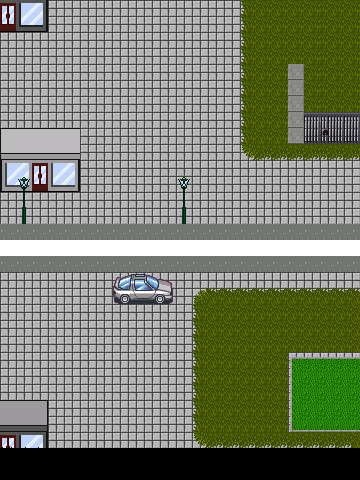
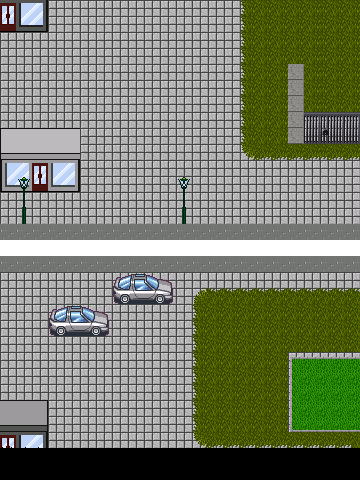
- fixed bug created by refreshing blockers and destinations(Person.js)
- fixed blockers positions and added new ones(main.js)

Changed region(s): [[0.1222, 0.625, 0.3056, 0.7188]]

diff --git a/Person.js b/Person.js
@@ -61,7 +61,7 @@ class Person{
                 if(this.y != 0){
                     if(world[this.x][this.y - 1] == personCharacter || world[this.x][this.y - 1] == shopCharacter || world[this.x][this.y - 1] == blockerCharacter){
                         this.moveQueue=[];
-                        console.log("RECALCULATING.......")
+                        // console.log("RECALCULATING.......")
                         this.aStarPathFinding("random");
                         return;
                     }
@@ -76,7 +76,7 @@ class Person{
                 if(this.y != 0 && this.x != 0){
                     if(world[this.x - 1][this.y - 1] == personCharacter || world[this.x - 1][this.y - 1] == shopCharacter || world[this.x - 1][this.y - 1] == blockerCharacter){
                         this.moveQueue=[];
-                        console.log("RECALCULATING.......")
+                        // console.log("RECALCULATING.......")
                         this.aStarPathFinding("random");
                         return;
                     }
@@ -93,7 +93,7 @@ class Person{
                 if(this.x != 0){
                     if(world[this.x - 1][this.y] == personCharacter || world[this.x - 1][this.y] == shopCharacter || world[this.x - 1][this.y] == blockerCharacter){
                         this.moveQueue=[];
-                        console.log("RECALCULATING.......")
+                        // console.log("RECALCULATING.......")
                         this.aStarPathFinding("random");
                         return;
                     }
@@ -108,7 +108,7 @@ class Person{
                 if(this.y < (screenY - 1) && this.x != 0){
                     if(world[this.x - 1][this.y + 1] == personCharacter || world[this.x - 1][this.y + 1] == shopCharacter || world[this.x - 1][this.y + 1] == blockerCharacter){
                         this.moveQueue=[];
-                        console.log("RECALCULATING.......")
+                        // console.log("RECALCULATING.......")
                         this.aStarPathFinding("random");
                         return;
                     }
@@ -124,7 +124,7 @@ class Person{
                 if(this.y < (screenY - 1)){
                     if(world[this.x][this.y + 1] == personCharacter || world[this.x][this.y + 1] == shopCharacter || world[this.x][this.y + 1] == blockerCharacter){
                         this.moveQueue=[];
-                        console.log("RECALCULATING.......")
+                        // console.log("RECALCULATING.......")
                         this.aStarPathFinding("random");
                         return;
                     }
@@ -139,7 +139,7 @@ class Person{
                 if(this.y < (screenY - 1) && this.x < (screenX - 1)){
                     if(world[this.x + 1][this.y + 1] == personCharacter || world[this.x + 1][this.y + 1] == shopCharacter || world[this.x + 1][this.y + 1] == blockerCharacter){
                         this.moveQueue=[];
-                        console.log("RECALCULATING.......")
+                        // console.log("RECALCULATING.......")
                         this.aStarPathFinding("random");
                         return;
                     }
@@ -155,7 +155,7 @@ class Person{
                 if(this.x < (screenX - 1)){
                     if(world[this.x + 1][this.y] == personCharacter || world[this.x + 1][this.y] == shopCharacter || world[this.x + 1][this.y] == blockerCharacter){
                         this.moveQueue=[];
-                        console.log("RECALCULATING.......")
+                        // console.log("RECALCULATING.......")
                         this.aStarPathFinding("random");
                         return;
                     }
@@ -170,7 +170,7 @@ class Person{
                 if(this.y != 0 && this.x < (screenX - 1)){
                     if(world[this.x][this.y - 1] == personCharacter || world[this.x][this.y - 1] == shopCharacter || world[this.x][this.y - 1] == blockerCharacter){
                         this.moveQueue=[];
-                        console.log("RECALCULATING.......")
+                        // console.log("RECALCULATING.......")
                         this.aStarPathFinding("random");
                         return;
                     }
@@ -245,7 +245,10 @@ class Person{
         aStarGrid[ClosestShopCoordinates[0]][ClosestShopCoordinates[1]] = shopCharacter;
 
         //closing the first node
-        aStarGrid[currentNodeCoordinates[0]][currentNodeCoordinates[1]].status = "closed";
+        if(aStarGrid[currentNodeCoordinates[0]][currentNodeCoordinates[1]] instanceof Node){
+            aStarGrid[currentNodeCoordinates[0]][currentNodeCoordinates[1]].status = "closed";
+        }
+
         // console.log(JSON.parse(JSON.stringify(aStarGrid)))
         // (aStarGrid);
         //a star main loop
@@ -352,7 +355,7 @@ class Person{
                 currentNodeCoordinates = nextNodeToClose.NodeCoordinates;
             }
             catch(TypeError){
-                console.log("ERROR 1!!!!!!!!!!!!!!!!!!!!!!!!")
+                // console.log("ERROR 1!!!!!!!!!!!!!!!!!!!!!!!!")
                 this.moveQueue=[];
                 this.aStarPathFinding("random");
                 return;
@@ -483,7 +486,7 @@ class Person{
                 aStarGridTemp[currentNodeInversePath.NodeCoordinates[0]][currentNodeInversePath.NodeCoordinates[1]] = undefined;
             }
             catch(TypeError){
-                console.log("ERROR 2!!!!!!!!!!!!!!!!!!!!!!!!")
+                // console.log("ERROR 2!!!!!!!!!!!!!!!!!!!!!!!!")
                 this.moveQueue=[];
                 this.aStarPathFinding("random")
                 return;

diff --git a/main.js b/main.js
@@ -11,7 +11,7 @@ screenX = 15;
 
 // Create one dimensional array 
 var world = new Array(screenX + 1);
-var turnInterval = 1000; //turn interval in milliseconds //3260
+var turnInterval = 800; //turn interval in milliseconds //3260
 var personsVar = [];
 var groundCharacter = "A";
 var shopCharacter = "P";
@@ -70,7 +70,7 @@ for (var i = 0; i < screenY; i++) {
 var destinationSpots = [[3, 7], [12, 2], [5, 0], [2, 3], [12, 12], [7, 13], [7, 7]]
 var blockerSpots =  [[4, 0], [5, 0], [4, 1], [5, 1], [4, 2], [5, 2], [3, 12], [4, 12],
                     [4, 13], [4, 14], [4, 15], [2, 12], [6, 0], [6, 7], [5, 7], [8,6], 
-                    [8, 5]/*, [16, 7], [17, 7], [16, 8], 
+                    [8, 5], [9, 3], [9, 4], [9, 5]/*, [16, 7], [17, 7], [16, 8], 
 [17, 8], [16, 9], [17, 9], [16, 10], [17, 10]*/]
 //initialize shop
 console.log(destinationSpots)
@@ -100,7 +100,6 @@ function refreshDestinations(){
 
 function refreshBlockers(){
     blockerSpots.forEach(blockerSpot => {
-        console.log("LLLL")
         arrayUpdate(world, blockerSpot[0], blockerSpot[1], blockerCharacter);
     });
 }

diff --git a/canvasPerson.js b/canvasPerson.js
@@ -92,7 +92,7 @@ class canvasPerson{
         this.XOffsetActive = 0
         this.YOffsetActive = 0
         clearInterval(this.myInterval)
-        this.myInterval = setInterval(frame.bind(this),(turnInterval/65))//50
+        this.myInterval = setInterval(frame.bind(this),(turnInterval/65)/*5*/)//50
         function frame(){
             // console.log("LKJ: " + (turnInterval/65))
             if(this.previousLeft + this.XOffsetActive == ((this.y*CellYSize)-(this.y*CellYSize/4)) && this.previousTop + this.YOffsetActive == ((this.x*CellXSize)+(this.x*CellXSize/3))){
@@ -129,6 +129,7 @@ class canvasPerson{
                 // console.log("currentY: " + (this.previousTop + this.YOffsetActive))
                 // console.log("destinationY: " + ((this.x*CellXSize)+(this.x*CellXSize/3)))
             }
+            console.log("a setInterval()")
         }
     }
 
